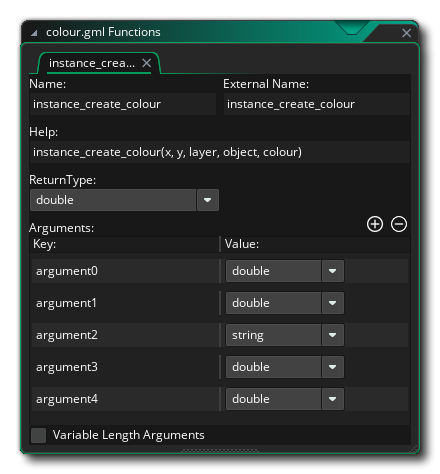
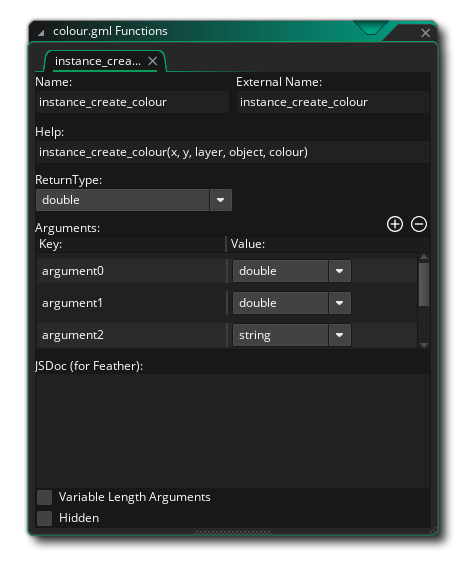
docs(feature): Jsdoc panel in extension function editor https://github.com/YoYoGames/YoYoStudio/issues/11178

Changed region(s): [[0.0295, 0.0295, 0.975, 1.0]]

diff --git a/Manual/contents/The_Asset_Editors/Extension_Creation/Creating_An_Extension.htm b/Manual/contents/The_Asset_Editors/Extension_Creation/Creating_An_Extension.htm
@@ -16,7 +16,7 @@
   <!--<div class="body-scroll" style="top: 150px;">-->
   <h1>Creating An Extension</h1>
   <p>To create an extension, you&#39;ll first need to right click <img alt="RMB Icon" class="icon" src="../../assets/Images/Icons/Icon_RMB.png" /> anywhere within the <a href="../../Introduction/The_Asset_Browser.htm">Asset Browser</a> and select <strong>Create -&gt; Extension</strong>. This will open the Extension properties for your newly created asset in the Workspace:</p>
-  <p><img alt="Extension Properties" class="center" height="519" src="../../assets/Images/Asset_Editors/Editor_Extensions.png" width="486" />If you do not see this, you can double click on your Extension asset in the Asset Browser to open its properties window or to focus on it when it&#39;s already open.</p>
+  <p><img alt="Extension Properties" class="center" src="../../assets/Images/Asset_Editors/Editor_Extensions.png" />If you do not see this, you can double click on your Extension asset in the Asset Browser to open its properties window or to focus on it when it&#39;s already open.</p>
   <p>This is now ready for you to add the required files and functions, and you can also give the extension a name here (following the usual convention of only letters/numbers and no special symbols except the underscore &quot;_&quot;). You can also set the version number for the extension should you wish to.</p>
   <p>Under &quot;Copies To&quot; you can choose the platforms that this extension is exported to. For a simple GML extension you do not need to worry about this as it will run on all platforms, however if you are creating a platform-specific extension (such as for Android) then you need to make sure that it&#39;s <em>not</em> exported to any non-compatible platforms (such as iOS, consoles, etc.).</p>
   <h2>Placeholder Files</h2>
@@ -38,7 +38,7 @@
   <p>Right-clicking on a file in the Files list will show you the following extra options:</p>
   <ul class="colour">
     <li><strong>Remove Selected</strong>: Remove the selected file from the extension</li>
-    <li><strong>Open in <span data-keyref="Code_Editor2_Name">Code Editor</span></strong>: Open the file for editing in <a data-xref="{title}" href="../The_Text_Editor.htm">The Code Editor</a>, if it is one of the formats that the editor supports (listed on the linked page). This option is only shown when the new <span data-keyref="Code_Editor2_Name">Code Editor</span> is enabled in the <a data-xref="{title}" href="../../Setting_Up_And_Version_Information/IDE_Preferences/Text_Editor_2_Preferences.htm">Code Editor Preferences</a>.</li>
+    <li><strong>Open in <span data-keyref="Code_Editor2_Name">Code Editor 2</span></strong>: Open the file for editing in <a data-xref="{title}" href="../The_Text_Editor.htm">Code Editor 2 (Beta)</a>, if it is one of the formats that the editor supports (listed on the linked page). This option is only shown when the new <span data-keyref="Code_Editor2_Name">Code Editor 2</span> is enabled in the <a data-xref="{title}" href="../../Setting_Up_And_Version_Information/IDE_Preferences/Text_Editor_2_Preferences.htm">Code Editor 2 Preferences</a>.</li>
   </ul>
   <h2>Creating a GML Extension</h2>
   <p>To start with you need to create the file that is going to be used. For a GML extension, this would be a text file (saved with the <span class="inline">.gml</span> extension) and would be formatted something like this:</p>
@@ -75,10 +75,10 @@
     <li>You can see that we have given the function a <em>Name</em>, which is what you would use when calling the function in your project; note that this name doesn&#39;t have to match the one used in the extension -- you can name it anything you like and then use the <em>External Name</em> field to link it to the actual name defined in the extension:<img class="center" src="../../assets/Images/Asset_Editors/Editor_Extensions_FunctionNames.png" /></li>
     <li>Below that you have a section for defining the <em>Help </em>text, which is the text that will be shown in the code completion pop-up and the helper text at the bottom of the code editor.</li>
     <li>Next you can define the <em>Return Type</em>, which can be a <strong>double </strong>(real number <a class="glossterm" data-glossterm="floating point" href="#">floating point</a> value) or a <strong>string</strong>; if there is nothing returned by the external function, then this does not matter.</li>
-    <li>Under that you define the arguments that the function will take. These arguments can be either <strong>doubles </strong>or <strong>strings</strong>, and you can add them by clicking the add button <img alt="Add Argument Icon" class="icon" height="18" src="../../assets/Images/Icons/Icon_AddArgument.png" width="18" /> and remove them by clicking the remove button <img alt="Remove Argument Icon" class="icon" src="../../assets/Images/Icons/Icon_RemoveArgument.png" />.<br />
-      <br />
-      If your function can take a variable amount of arguments (meaning it has some optional arguments), you should make sure to check the &quot;Variable Length Arguments&quot; checkbox at the bottom.
-    </li>
+    <li>Under that you define the arguments that the function will take. These arguments can be either <strong>doubles </strong>or <strong>strings</strong>, and you can add them by clicking the add button <img alt="Add Argument Icon" class="icon" height="18" src="../../assets/Images/Icons/Icon_AddArgument.png" width="18" /> and remove them by clicking the remove button <img alt="Remove Argument Icon" class="icon" src="../../assets/Images/Icons/Icon_RemoveArgument.png" />.</li>
+    <li>Then you can define <a href="../Code_Editor_Properties/JSDoc_Script_Comments.htm">JSDoc information</a> for the function that is used for <a data-xref="{title}" href="../Code_Editor_Properties/Feather_Features.htm">Code Completion</a>.</li>
+    <li>If your function can take a variable amount of arguments (meaning it has some optional arguments), you should make sure to check the &quot;Variable Length Arguments&quot; checkbox at the bottom.</li>
+    <li>You can enable &quot;Hidden&quot; if you do not want this function to show up in auto-complete across the project.</li>
   </ul>
   <p class="note"><span data-conref="../../assets/snippets/Tag_note.hts"> </span> If the function is part of a native extension for Windows, Mac or Ubuntu (<span class="inline">dll</span>, <span class="inline">dylib</span> or <span class="inline">so</span> respectively) and it has more than four arguments, <strong>all arguments must be of the same type</strong>.</p>
   <p>Once you have done all that then the function is ready to be used in the project; it will now show up in auto-complete and be colour-coded too:</p>
@@ -188,7 +188,7 @@
         <div style="float:right">Next: <a href="Android_Extensions.htm">Android Extensions</a></div>
       </div>
     </div>
-    <h5><span data-keyref="Copyright Notice">© Copyright YoYo Games Ltd. 2024 All Rights Reserved</span></h5>
+    <h5><span data-keyref="Copyright Notice">© Copyright YoYo Games Ltd. 2025 All Rights Reserved</span></h5>
   </div>
   <!-- KEYWORDS
 Creating Extensions

diff --git a/Manual/contents/The_Asset_Editors/Code_Editor_Properties/Feather_Features.htm b/Manual/contents/The_Asset_Editors/Code_Editor_Properties/Feather_Features.htm
@@ -14,7 +14,7 @@
 </head>
 <body>
   <!--<div class="body-scroll" style="top: 150px;">-->
-  <h1>Code Completion</h1>
+  <h1>sCode Completion</h1>
   <p>The <span data-keyref="Code_Editor2_Name">Code Editor 2</span> provides intelligent code completion and improved syntax checking in your documents, along with smart refactoring options.</p>
   <p>This page lists the features provided in the GML Code editor for <a href="../Scripts.htm">scripts</a> and <a href="../Object_Properties/Object_Events.htm">object events</a>. These features will only be available if Feather is <a href="../../Setting_Up_And_Version_Information/IDE_Preferences/Feather_Settings.htm#s1">enabled</a>, and are currently only supported in GML documents.</p>
   <div class="seealso" data-type="seealso" style="">
@@ -78,7 +78,7 @@
         <div style="float:right">Next: <a data-xref="{title}" href="JSDoc_Script_Comments.htm">JSDoc Comments</a></div>
       </div>
     </div>
-    <h5><span data-keyref="Copyright Notice">© Copyright YoYo Games Ltd. 2024 All Rights Reserved</span></h5>
+    <h5><span data-keyref="Copyright Notice">© Copyright YoYo Games Ltd. 2025 All Rights Reserved</span></h5>
   </div>
   <!-- KEYWORDS
 Feather Features
